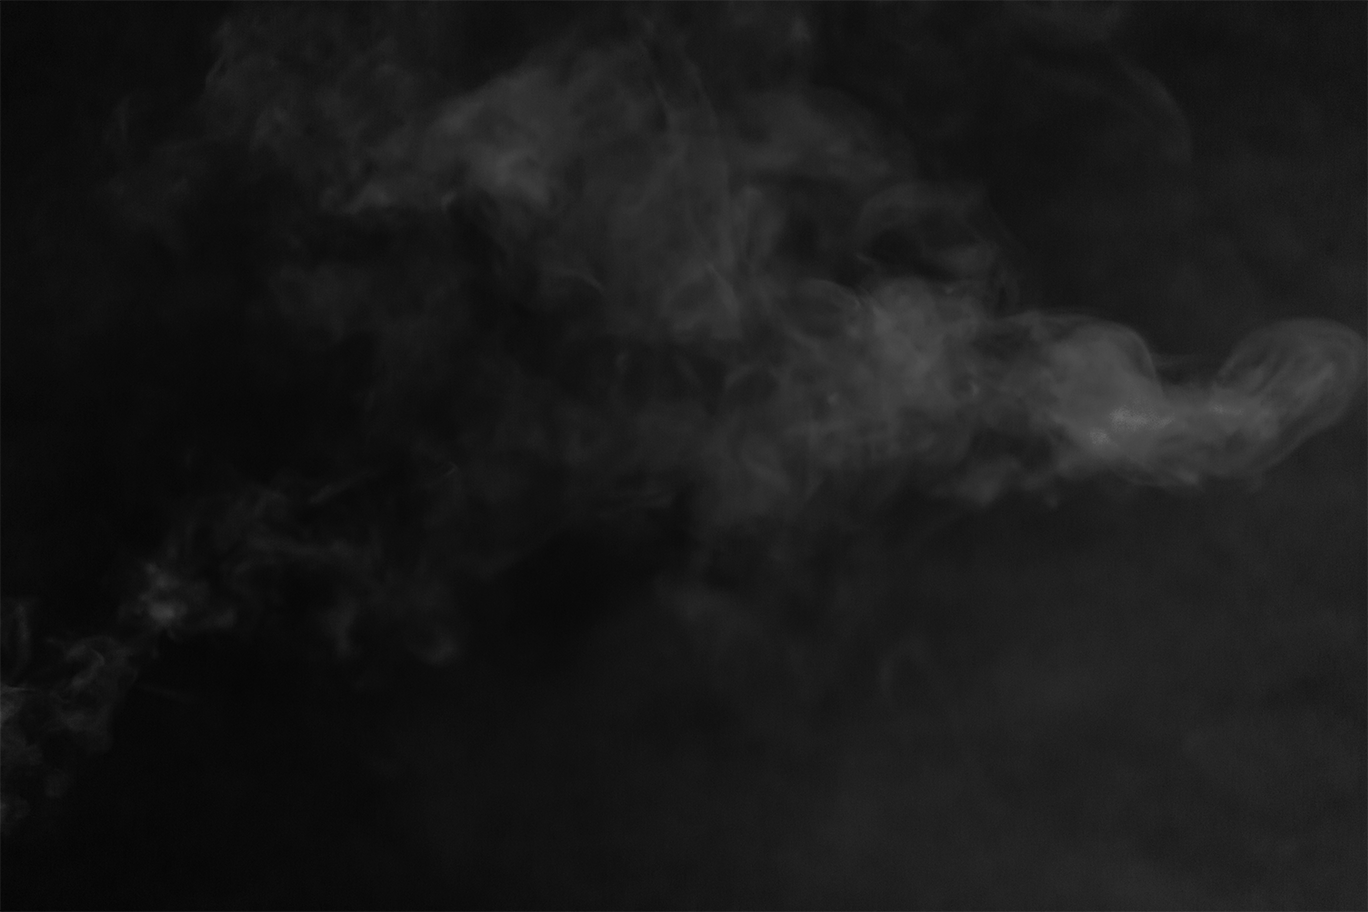
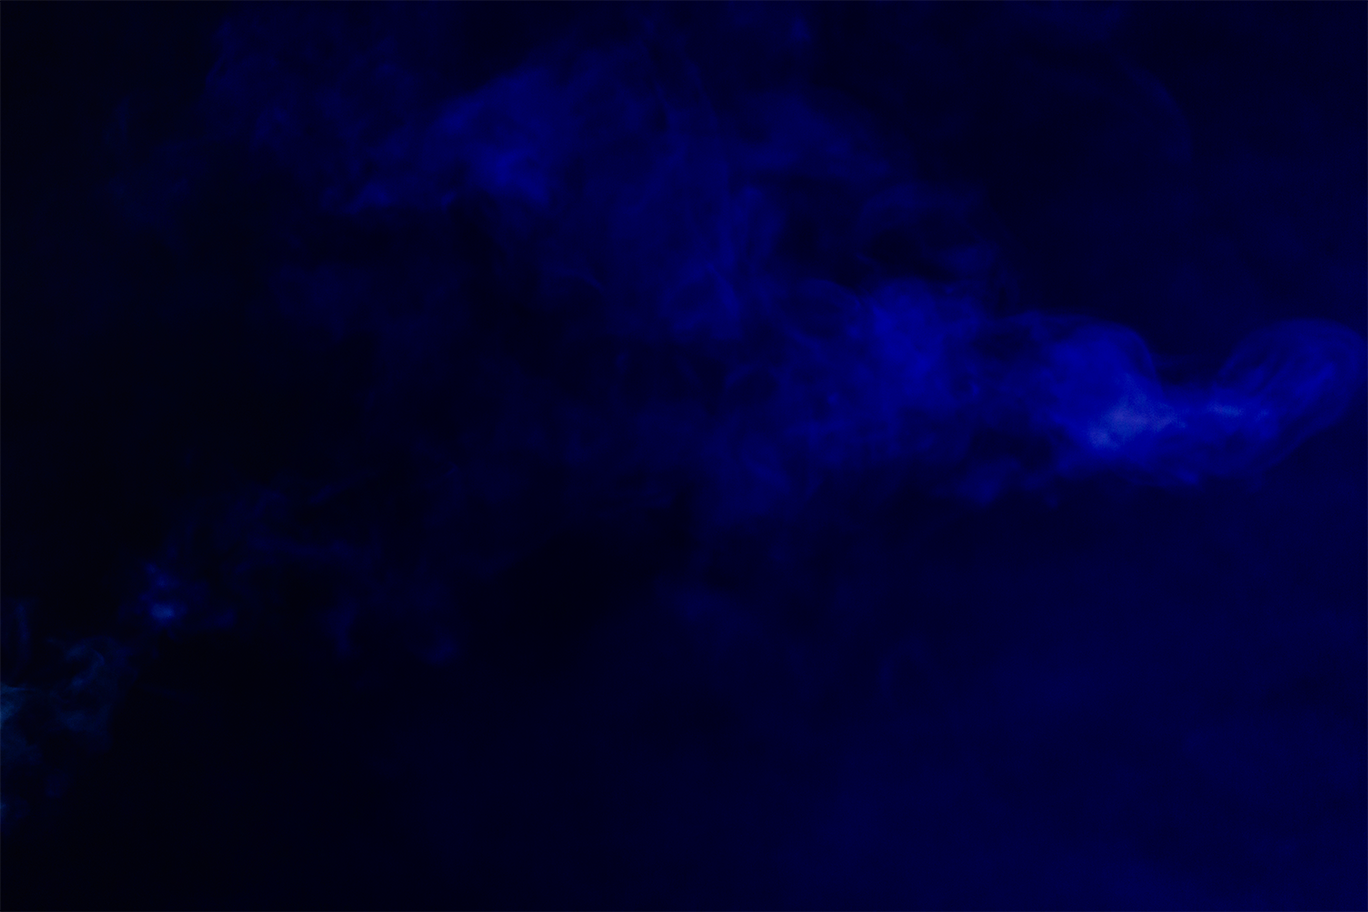
base bg

diff --git a/src/css/desktop.css b/src/css/desktop.css
@@ -7,6 +7,14 @@
         border: solid 1px black; /* temporary */
     }
 
+    .main-container-background {
+        height: 100%;
+        width: 100%;
+        position: absolute;
+        background: url('../assets/imgs/content-bg.png');
+        background-size: cover;
+    }
+
     /* navigation */
     #nav {
         height: 15%;

diff --git a/src/index.html b/src/index.html
@@ -20,6 +20,8 @@
         <div id = "content-wrapper" class = "main-wrapper">
             <div class = "main-container">
 
+                <div class = "main-container-background"></div>
+
                 <!-- navigation -->
                 <div id = "nav">
                     <div id = "logo"></div>
